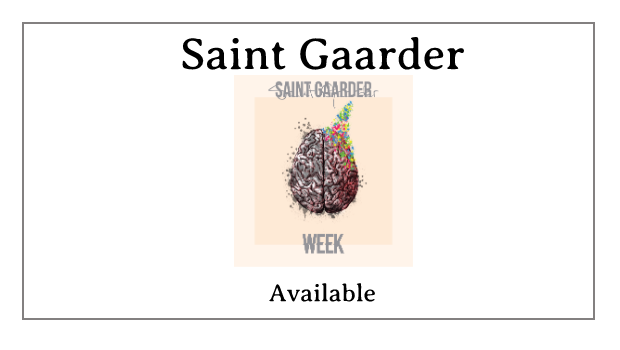
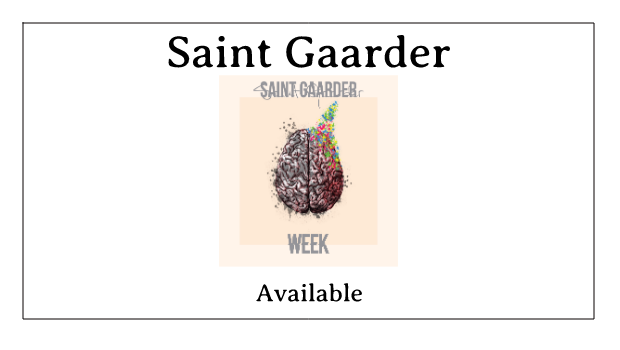
5 1 2018 h

diff --git a/index.html b/index.html
@@ -28,7 +28,7 @@
 
 <header id="header" class="header">
         <div class="div_logo">
-            <img class="logo" srcset="img/SaintGaarderPor.png 1500w, img/SaintGaarderPor9.png 1320w, img/SaintGaarderPor10.png 1100w, img/IcnosPaginaSG2.png 1000w, img/SaintGaarderPor6.png 850w, img/SaintGaarderPor11.png 750w, img/SaintGaarderPor3.png 700w, img/SaintGaarderPor7.png 620w, img/SaintGaarderPor5.png 450w, img/SaintGaarderPor4.png 350w, img/SaintGaarderPor8.png 250w" scr="img/SaintGaarderPor.png" alt="Unad">
+            <img class="logo" srcset="img/SaintGaarderPor12.png 1700w, img/SaintGaarderPor.png 1500w, img/SaintGaarderPor9.png 1320w, img/SaintGaarderPor10.png 1100w, img/IcnosPaginaSG2.png 1000w, img/SaintGaarderPor6.png 850w, img/SaintGaarderPor11.png 750w, img/SaintGaarderPor3.png 700w, img/SaintGaarderPor7.png 620w, img/SaintGaarderPor13.png 550w,img/SaintGaarderPor5.png 450w, img/SaintGaarderPor4.png 350w, img/SaintGaarderPor8.png 250w" scr="img/SaintGaarderPor.png" alt="Unad">
 
 
 

diff --git a/Videos.html b/Videos.html
@@ -28,7 +28,7 @@
 
 <header id="header" class="header">
         <div class="div_logo">
-           <img class="logo" srcset="img/SaintGaarderPor.png 1500w, img/SaintGaarderPor9.png 1320w, img/SaintGaarderPor10.png 1100w, img/IcnosPaginaSG2.png 1000w, img/SaintGaarderPor6.png 850w, img/SaintGaarderPor11.png 750w, img/SaintGaarderPor3.png 700w, img/SaintGaarderPor7.png 620w, img/SaintGaarderPor5.png 450w, img/SaintGaarderPor4.png 350w, img/SaintGaarderPor8.png 250w" scr="img/SaintGaarderPor.png" alt="Unad">
+           <img class="logo" srcset="img/SaintGaarderPor12.png 1700w, img/SaintGaarderPor.png 1500w, img/SaintGaarderPor9.png 1320w, img/SaintGaarderPor10.png 1100w, img/IcnosPaginaSG2.png 1000w, img/SaintGaarderPor6.png 850w, img/SaintGaarderPor11.png 750w, img/SaintGaarderPor3.png 700w, img/SaintGaarderPor7.png 620w, img/SaintGaarderPor5.png 450w, img/SaintGaarderPor4.png 350w, img/SaintGaarderPor8.png 250w" scr="img/SaintGaarderPor.png" alt="Unad">
 
 
 
